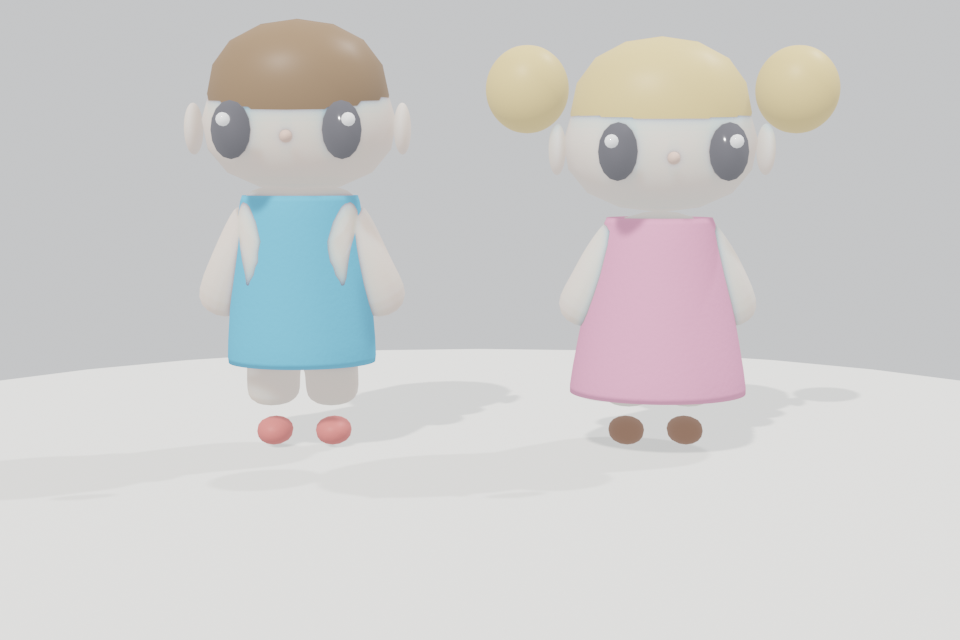
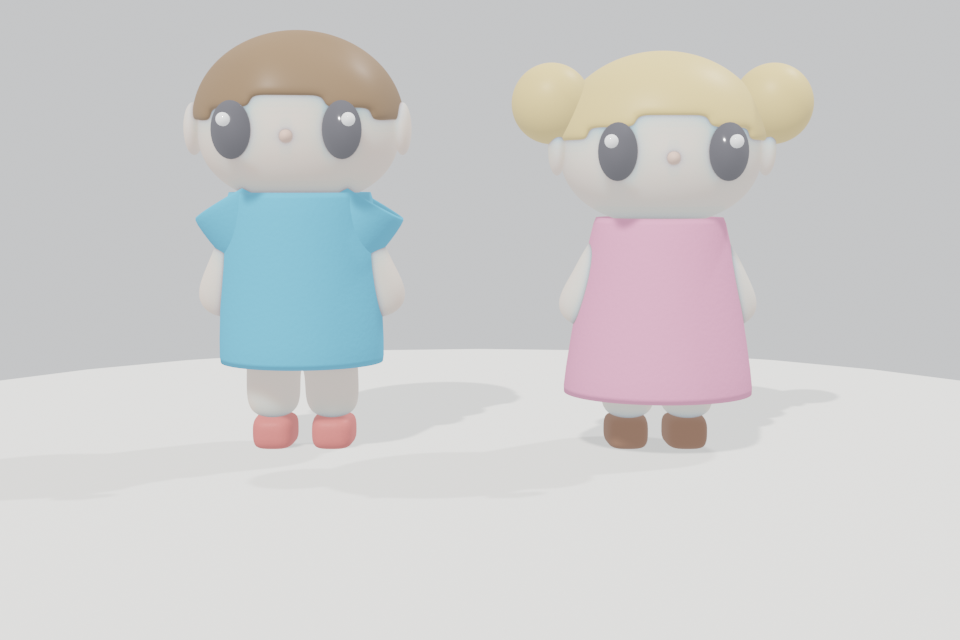
feat(character): upgrade to high-poly topology with smooth hair, sleeves and ankle alignment

diff --git a/blender_addons/procedural_rock_studio/generators/chibi_char_gen.py b/blender_addons/procedural_rock_studio/generators/chibi_char_gen.py
@@ -52,8 +52,8 @@ def build_chibi_body_mesh(context, name="Chibi_Body", gender="BOY", head_ratio=2
     # 脚
     hip_x = 0.075
     v_hip = bm.verts.new((hip_x, 0.0, base_z + leg_len * 0.95))
-    v_knee = bm.verts.new((hip_x, 0.0, base_z + leg_len * 0.50))
-    v_ankle = bm.verts.new((hip_x, 0.01, base_z + 0.06))
+    v_knee = bm.verts.new((hip_x, 0.0, base_z + leg_len * 0.45))
+    v_ankle = bm.verts.new((hip_x, 0.01, base_z + 0.025))
 
     # エッジ接続
     bm.edges.new((v_crotch, v_belly))
@@ -102,25 +102,25 @@ def build_chibi_body_mesh(context, name="Chibi_Body", gender="BOY", head_ratio=2
         skin_data[9].radius = (0.07, 0.07)
 
     mod_sub = obj.modifiers.new(name="Subdivision", type='SUBSURF')
-    mod_sub.levels = 2
-    mod_sub.render_levels = 2
+    mod_sub.levels = 3
+    mod_sub.render_levels = 3
 
     return obj
 
 
 def build_chibi_head_mesh(context, name="Chibi_Head", head_center=(0, 0, 0.72), head_size=(0.48, 0.42, 0.40)):
-    """どうぶつの森風の愛らしい横長・ふっくら頭部"""
+    """どうぶつの森風の愛らしい横長・ふっくら頭部（ハイポリUV球ベース）"""
     mesh = bpy.data.meshes.new(name + "_Mesh")
     obj = bpy.data.objects.new(name, mesh)
     context.collection.objects.link(obj)
 
     bm = bmesh.new()
-    bmesh.ops.create_cube(bm, size=1.0)
+    bmesh.ops.create_uvsphere(bm, u_segments=32, v_segments=24, radius=0.5)
     sx, sy, sz = head_size[0], head_size[1], head_size[2]
     for v in bm.verts:
-        # 下膨れ（頬をふっくら）の形状変形
-        y_fac = 1.0 + (1.0 - v.co.z) * 0.12
-        x_fac = 1.0 + (1.0 - v.co.z) * 0.16
+        norm_z = v.co.z / 0.5
+        y_fac = 1.0 + max(0.0, -norm_z) * 0.12
+        x_fac = 1.0 + max(0.0, -norm_z) * 0.16
         v.co.x *= sx * x_fac
         v.co.y *= sy * y_fac
         v.co.z *= sz
@@ -137,16 +137,16 @@ def build_chibi_head_mesh(context, name="Chibi_Head", head_center=(0, 0, 0.72), 
 
 
 def build_chibi_ears_mesh(context, name="Chibi_Ears", head_center=(0, 0, 0.72), head_size=(0.48, 0.42, 0.40)):
-    """両耳メッシュ（Mirror）"""
+    """両耳メッシュ（ハイポリMirror）"""
     mesh = bpy.data.meshes.new(name + "_Mesh")
     obj = bpy.data.objects.new(name, mesh)
     context.collection.objects.link(obj)
 
     bm = bmesh.new()
     ear_pos = Vector((head_size[0] * 0.52, -0.02, head_center[2] - 0.02))
-    res = bmesh.ops.create_uvsphere(bm, u_segments=12, v_segments=8, radius=0.065)
+    res = bmesh.ops.create_uvsphere(bm, u_segments=24, v_segments=16, radius=0.065)
     for v in res['verts']:
-        v.co.x *= 0.35  # 耳の厚みを薄く
+        v.co.x *= 0.35
         v.co.y *= 0.9
         v.co += ear_pos
 
@@ -162,7 +162,7 @@ def build_chibi_ears_mesh(context, name="Chibi_Ears", head_center=(0, 0, 0.72), 
 
 
 def build_chibi_eyes_mesh(context, name="Chibi_Eyes", eye_style="OVAL", head_center=(0, 0, 0.72), head_size=(0.48, 0.42, 0.40)):
-    """デフォルメされた瞳メッシュ ＋ キラキラハイライト（左右対称ミラー）"""
+    """デフォルメされた瞳メッシュ ＋ キラキラハイライト（ハイポリ32セグメント・ミラー）"""
     mesh = bpy.data.meshes.new(name + "_Mesh")
     obj = bpy.data.objects.new(name, mesh)
     context.collection.objects.link(obj)
@@ -175,23 +175,22 @@ def build_chibi_eyes_mesh(context, name="Chibi_Eyes", eye_style="OVAL", head_cen
 
     rx = 0.046
     rz = 0.068 if eye_style == "OVAL" else 0.048
-    # 瞳本体
-    res_pupil = bmesh.ops.create_circle(bm, cap_ends=True, radius=1.0, segments=16)
+    # 瞳本体 (32 segments)
+    res_pupil = bmesh.ops.create_circle(bm, cap_ends=True, radius=1.0, segments=32)
     for v in res_pupil['verts']:
         vx = v.co.x * rx
         vz = v.co.y * rz
         vy = -(vx * vx + vz * vz) * 0.4
         v.co = Vector((vx, vy, vz)) + eye_pos
 
-    # 瞳ハイライト（白丸）
+    # 瞳ハイライト（白丸 16 segments）
     hl_pos = eye_pos + Vector((rx * 0.35, -0.008, rz * 0.35))
-    res_hl = bmesh.ops.create_circle(bm, cap_ends=True, radius=1.0, segments=12)
+    res_hl = bmesh.ops.create_circle(bm, cap_ends=True, radius=1.0, segments=16)
     for v in res_hl['verts']:
         vx = v.co.x * 0.016
         vz = v.co.y * 0.016
         v.co = Vector((vx, -0.002, vz)) + hl_pos
 
-    # ハイライト面の material_index を 1 に設定
     for f in bm.faces:
         if any(v in res_hl['verts'] for v in f.verts):
             f.material_index = 1
@@ -200,7 +199,6 @@ def build_chibi_eyes_mesh(context, name="Chibi_Eyes", eye_style="OVAL", head_cen
 
     bm.to_mesh(mesh)
     bm.free()
-
 
     mod_mirror = obj.modifiers.new(name="Mirror", type='MIRROR')
     mod_mirror.use_axis[0] = True
@@ -211,14 +209,14 @@ def build_chibi_eyes_mesh(context, name="Chibi_Eyes", eye_style="OVAL", head_cen
 
 
 def build_chibi_nose_mesh(context, name="Chibi_Nose", head_center=(0, 0, 0.72), head_size=(0.48, 0.42, 0.40)):
-    """ちょこんとした小さな三角/丸鼻"""
+    """ちょこんとした小さな三角/丸鼻（ハイポリ24セグメント）"""
     mesh = bpy.data.meshes.new(name + "_Mesh")
     obj = bpy.data.objects.new(name, mesh)
     context.collection.objects.link(obj)
 
     bm = bmesh.new()
     nose_pos = Vector((0.0, -head_size[1] * 0.535, head_center[2] - 0.045))
-    res = bmesh.ops.create_cone(bm, cap_ends=True, segments=12, radius1=0.024, radius2=0.006, depth=0.022)
+    res = bmesh.ops.create_cone(bm, cap_ends=True, segments=24, radius1=0.024, radius2=0.006, depth=0.022)
     for v in res['verts']:
         vy = -v.co.z
         vz = v.co.y
@@ -234,49 +232,74 @@ def build_chibi_nose_mesh(context, name="Chibi_Nose", head_center=(0, 0, 0.72), 
 
 
 def build_chibi_hair_mesh(context, name="Chibi_Hair", gender="BOY", hair_style="SHORT", head_center=(0, 0, 0.72), head_size=(0.48, 0.42, 0.40)):
-    """髪型メッシュ（ショート、ボブ、ツインテール）"""
+    """
+    髪型メッシュ（ハイポリUV球ベース・滑らかな生え際カーブ）
+    ギザギザ・ファセットのない美しい曲面を実現
+    """
     mesh = bpy.data.meshes.new(name + "_Mesh")
     obj = bpy.data.objects.new(name, mesh)
     context.collection.objects.link(obj)
 
     bm = bmesh.new()
     hc = Vector(head_center)
-    hsx, hsy, hsz = head_size[0] * 1.08, head_size[1] * 1.08, head_size[2] * 1.08
+    hsx, hsy, hsz = head_size[0], head_size[1], head_size[2]
 
-    # 頭部を覆うヘルメットベース
-    res_base = bmesh.ops.create_cube(bm, size=1.0)
-    for v in res_base['verts']:
-        v.co.x *= hsx
-        v.co.y *= hsy
-        v.co.z = (v.co.z + 0.15) * hsz
-        v.co += hc
+    # 高解像度UV球（36 segments, 24 rings）からヘルメットベースを作成
+    bmesh.ops.create_uvsphere(bm, u_segments=36, v_segments=24, radius=0.5)
+
+    # 生え際以下の頂点を滑らかな関数でカット
+    verts_to_delete = []
+    for v in bm.verts:
+        norm_z = v.co.z / 0.5
+        norm_y = v.co.y / 0.5
+        norm_x = v.co.x / 0.5
+
+        # 前方のおでこ生え際：滑らかなM字アーチ
+        forehead_line = 0.05 + 0.10 * math.cos(norm_x * math.pi)
+        if norm_y < -0.10 and norm_z < forehead_line:
+            verts_to_delete.append(v)
+        elif norm_z < -0.20:
+            # 後頭部・襟足のカットライン
+            verts_to_delete.append(v)
+
+    bmesh.ops.delete(bm, geom=verts_to_delete, context='VERTS')
+
+    # 残った頂点を頭部に合わせてスケール＆頭部中心 hc に配置
+    for v in bm.verts:
+        norm_z = v.co.z / 0.5
+        y_fac = 1.0 + max(0.0, -norm_z) * 0.12
+        x_fac = 1.0 + max(0.0, -norm_z) * 0.15
+        vx = v.co.x * hsx * x_fac * 1.06
+        vy = v.co.y * hsy * y_fac * 1.06
+        vz = v.co.z * hsz * 1.06
+        v.co = Vector((vx, vy, vz)) + hc
 
     # スタイルごとの特徴造形
     if hair_style == "SHORT" or gender == "BOY":
-        # 男の子ショート: 前髪のハネ感
+        # 男の子ショート: 前髪の自然なウェーブ束感
         for v in bm.verts:
-            if v.co.y < hc.y - 0.1 and v.co.z > hc.z:
-                v.co.y -= 0.03
-                v.co.z -= 0.02
+            if v.co.y < hc.y - 0.10 and v.co.z > hc.z - 0.05:
+                wave = math.sin((v.co.x - hc.x) * 22.0) * 0.008
+                v.co.y += wave - 0.006
+                v.co.z -= 0.005
     elif hair_style == "TWINTAILS":
-        # 両サイドのお団子/ツインテール
+        # 女の子お団子ツインテール
         for side in (-1.0, 1.0):
-            bun_pos = hc + Vector((side * hsx * 0.62, -0.02, hsz * 0.28))
-            res_bun = bmesh.ops.create_uvsphere(bm, u_segments=12, v_segments=8, radius=0.11)
+            bun_pos = hc + Vector((side * hsx * 0.55, -0.02, hsz * 0.22))
+            res_bun = bmesh.ops.create_uvsphere(bm, u_segments=24, v_segments=16, radius=0.10)
             for v in res_bun['verts']:
                 v.co += bun_pos
     elif hair_style == "BOB":
-        # 女の子ボブ: 裾が内巻きに広がる
         for v in bm.verts:
             if v.co.z < hc.z + 0.05:
-                v.co.x *= 1.12
-                v.co.y *= 1.08
+                v.co.x *= 1.10
+                v.co.y *= 1.06
 
     bm.to_mesh(mesh)
     bm.free()
 
     mod_sol = obj.modifiers.new(name="Solidify", type='SOLIDIFY')
-    mod_sol.thickness = 0.025
+    mod_sol.thickness = 0.020
     mod_sub = obj.modifiers.new(name="Subdivision", type='SUBSURF')
     mod_sub.levels = 2
     mod_sub.render_levels = 2
@@ -284,8 +307,11 @@ def build_chibi_hair_mesh(context, name="Chibi_Hair", gender="BOY", hair_style="
     return obj
 
 
+
 def build_chibi_outfit_mesh(context, name="Chibi_Outfit", gender="BOY", outfit_type="T_SHIRT", base_z=0.05, body_height=0.63):
-    """衣装メッシュ（Tシャツ短パン、またはワンピースドレス）"""
+    """
+    衣装メッシュ（ハイポリ36セグメント ＋ 袖Sleevesによる貫通完全ガード）
+    """
     mesh = bpy.data.meshes.new(name + "_Mesh")
     obj = bpy.data.objects.new(name, mesh)
     context.collection.objects.link(obj)
@@ -295,31 +321,48 @@ def build_chibi_outfit_mesh(context, name="Chibi_Outfit", gender="BOY", outfit_t
     torso_len = body_height * 0.62
 
     if outfit_type == "ONE_PIECE" or gender == "GIRL":
-        # 釣鐘型ワンピースドレス
+        # 釣鐘型ワンピースドレス（36セグメントで滑らか）
         dress_z = base_z + leg_len * 0.35
         dress_top_z = base_z + leg_len + torso_len * 0.95
         depth = dress_top_z - dress_z
 
-        bmesh.ops.create_cone(
-            bm, cap_ends=False, segments=16,
-            radius1=0.24, radius2=0.14, depth=depth
+        res_d = bmesh.ops.create_cone(
+            bm, cap_ends=False, segments=36,
+            radius1=0.25, radius2=0.165, depth=depth
         )
-        for v in bm.verts:
+        for v in res_d['verts']:
             v.co.z += dress_z + depth * 0.5
-            v.co.y *= 0.92
+            v.co.y *= 0.90
     else:
-        # Tシャツ（半袖胴体＋裾）
+        # Tシャツ（半袖胴体 36 segments ＋ 短い袖で腕の貫通を完全ブロック！）
         t_z = base_z + leg_len * 0.65
-        t_top_z = base_z + leg_len + torso_len * 0.96
+        t_top_z = base_z + leg_len + torso_len * 0.98
         depth = t_top_z - t_z
 
+        # 胴体部
         res_t = bmesh.ops.create_cone(
-            bm, cap_ends=False, segments=16,
-            radius1=0.20, radius2=0.155, depth=depth
+            bm, cap_ends=False, segments=36,
+            radius1=0.215, radius2=0.185, depth=depth
         )
         for v in res_t['verts']:
             v.co.z += t_z + depth * 0.5
             v.co.y *= 0.88
+
+        # 左右の短い袖（Sleeves）
+        sh_z = base_z + leg_len + torso_len * 0.74
+        for side in (-1.0, 1.0):
+            res_sl = bmesh.ops.create_cone(
+                bm, cap_ends=False, segments=24,
+                radius1=0.095, radius2=0.115, depth=0.15
+            )
+            for v in res_sl['verts']:
+                vx = v.co.x
+                vy = v.co.y
+                vz = v.co.z
+                # 腕の角度に合わせて斜めに配置
+                v.co.x = vx * 0.82 + side * vz * 0.48 + side * 0.14
+                v.co.y = vy * 0.95 - 0.01
+                v.co.z = -side * vx * 0.48 + vz * 0.82 + sh_z
 
     bm.to_mesh(mesh)
     bm.free()
@@ -328,14 +371,15 @@ def build_chibi_outfit_mesh(context, name="Chibi_Outfit", gender="BOY", outfit_t
     mod_sol.thickness = 0.018
     mod_sub = obj.modifiers.new(name="Subdivision", type='SUBSURF')
     mod_sub.levels = 2
+    mod_sub.render_levels = 2
 
     return obj
 
 
 def build_chibi_shoes_mesh(context, name="Chibi_Shoes", foot_spacing=0.075, shoe_size=(0.10, 0.15, 0.085)):
     """
-    コロンとした丸い靴（Mirror）
-    重要: 接地位置を厳密に Z=0.0 に配置し、足音Surface判定用スロットを完備
+    コロンとした丸い靴（ハイポリMirror）
+    接地位置を厳密に Z=0.0 に配置し、足音Surface判定用スロットを完備
     """
     mesh = bpy.data.meshes.new(name + "_Mesh")
     obj = bpy.data.objects.new(name, mesh)
@@ -344,12 +388,15 @@ def build_chibi_shoes_mesh(context, name="Chibi_Shoes", foot_spacing=0.075, shoe
     bm = bmesh.new()
     sx, sy, sz = shoe_size
 
+    # キューブを作成後、細分化して丸みを向上
     bmesh.ops.create_cube(bm, size=1.0)
+    bmesh.ops.subdivide_edges(bm, edges=list(bm.edges), cuts=1, use_grid_fill=True)
+
     for v in bm.verts:
         y_fac = 1.0 + (v.co.y + 0.5) * 0.18
         vx = v.co.x * sx * y_fac + foot_spacing
         vy = v.co.y * sy + 0.02
-        vz = (v.co.z + 0.5) * sz  # Z=0.0 接地
+        vz = (v.co.z + 0.5) * sz
         v.co = Vector((vx, vy, vz))
 
     bm.to_mesh(mesh)
@@ -359,8 +406,10 @@ def build_chibi_shoes_mesh(context, name="Chibi_Shoes", foot_spacing=0.075, shoe
     mod_mirror.use_axis[0] = True
     mod_sub = obj.modifiers.new(name="Subdivision", type='SUBSURF')
     mod_sub.levels = 2
+    mod_sub.render_levels = 2
 
     return obj
+
 
 
 
